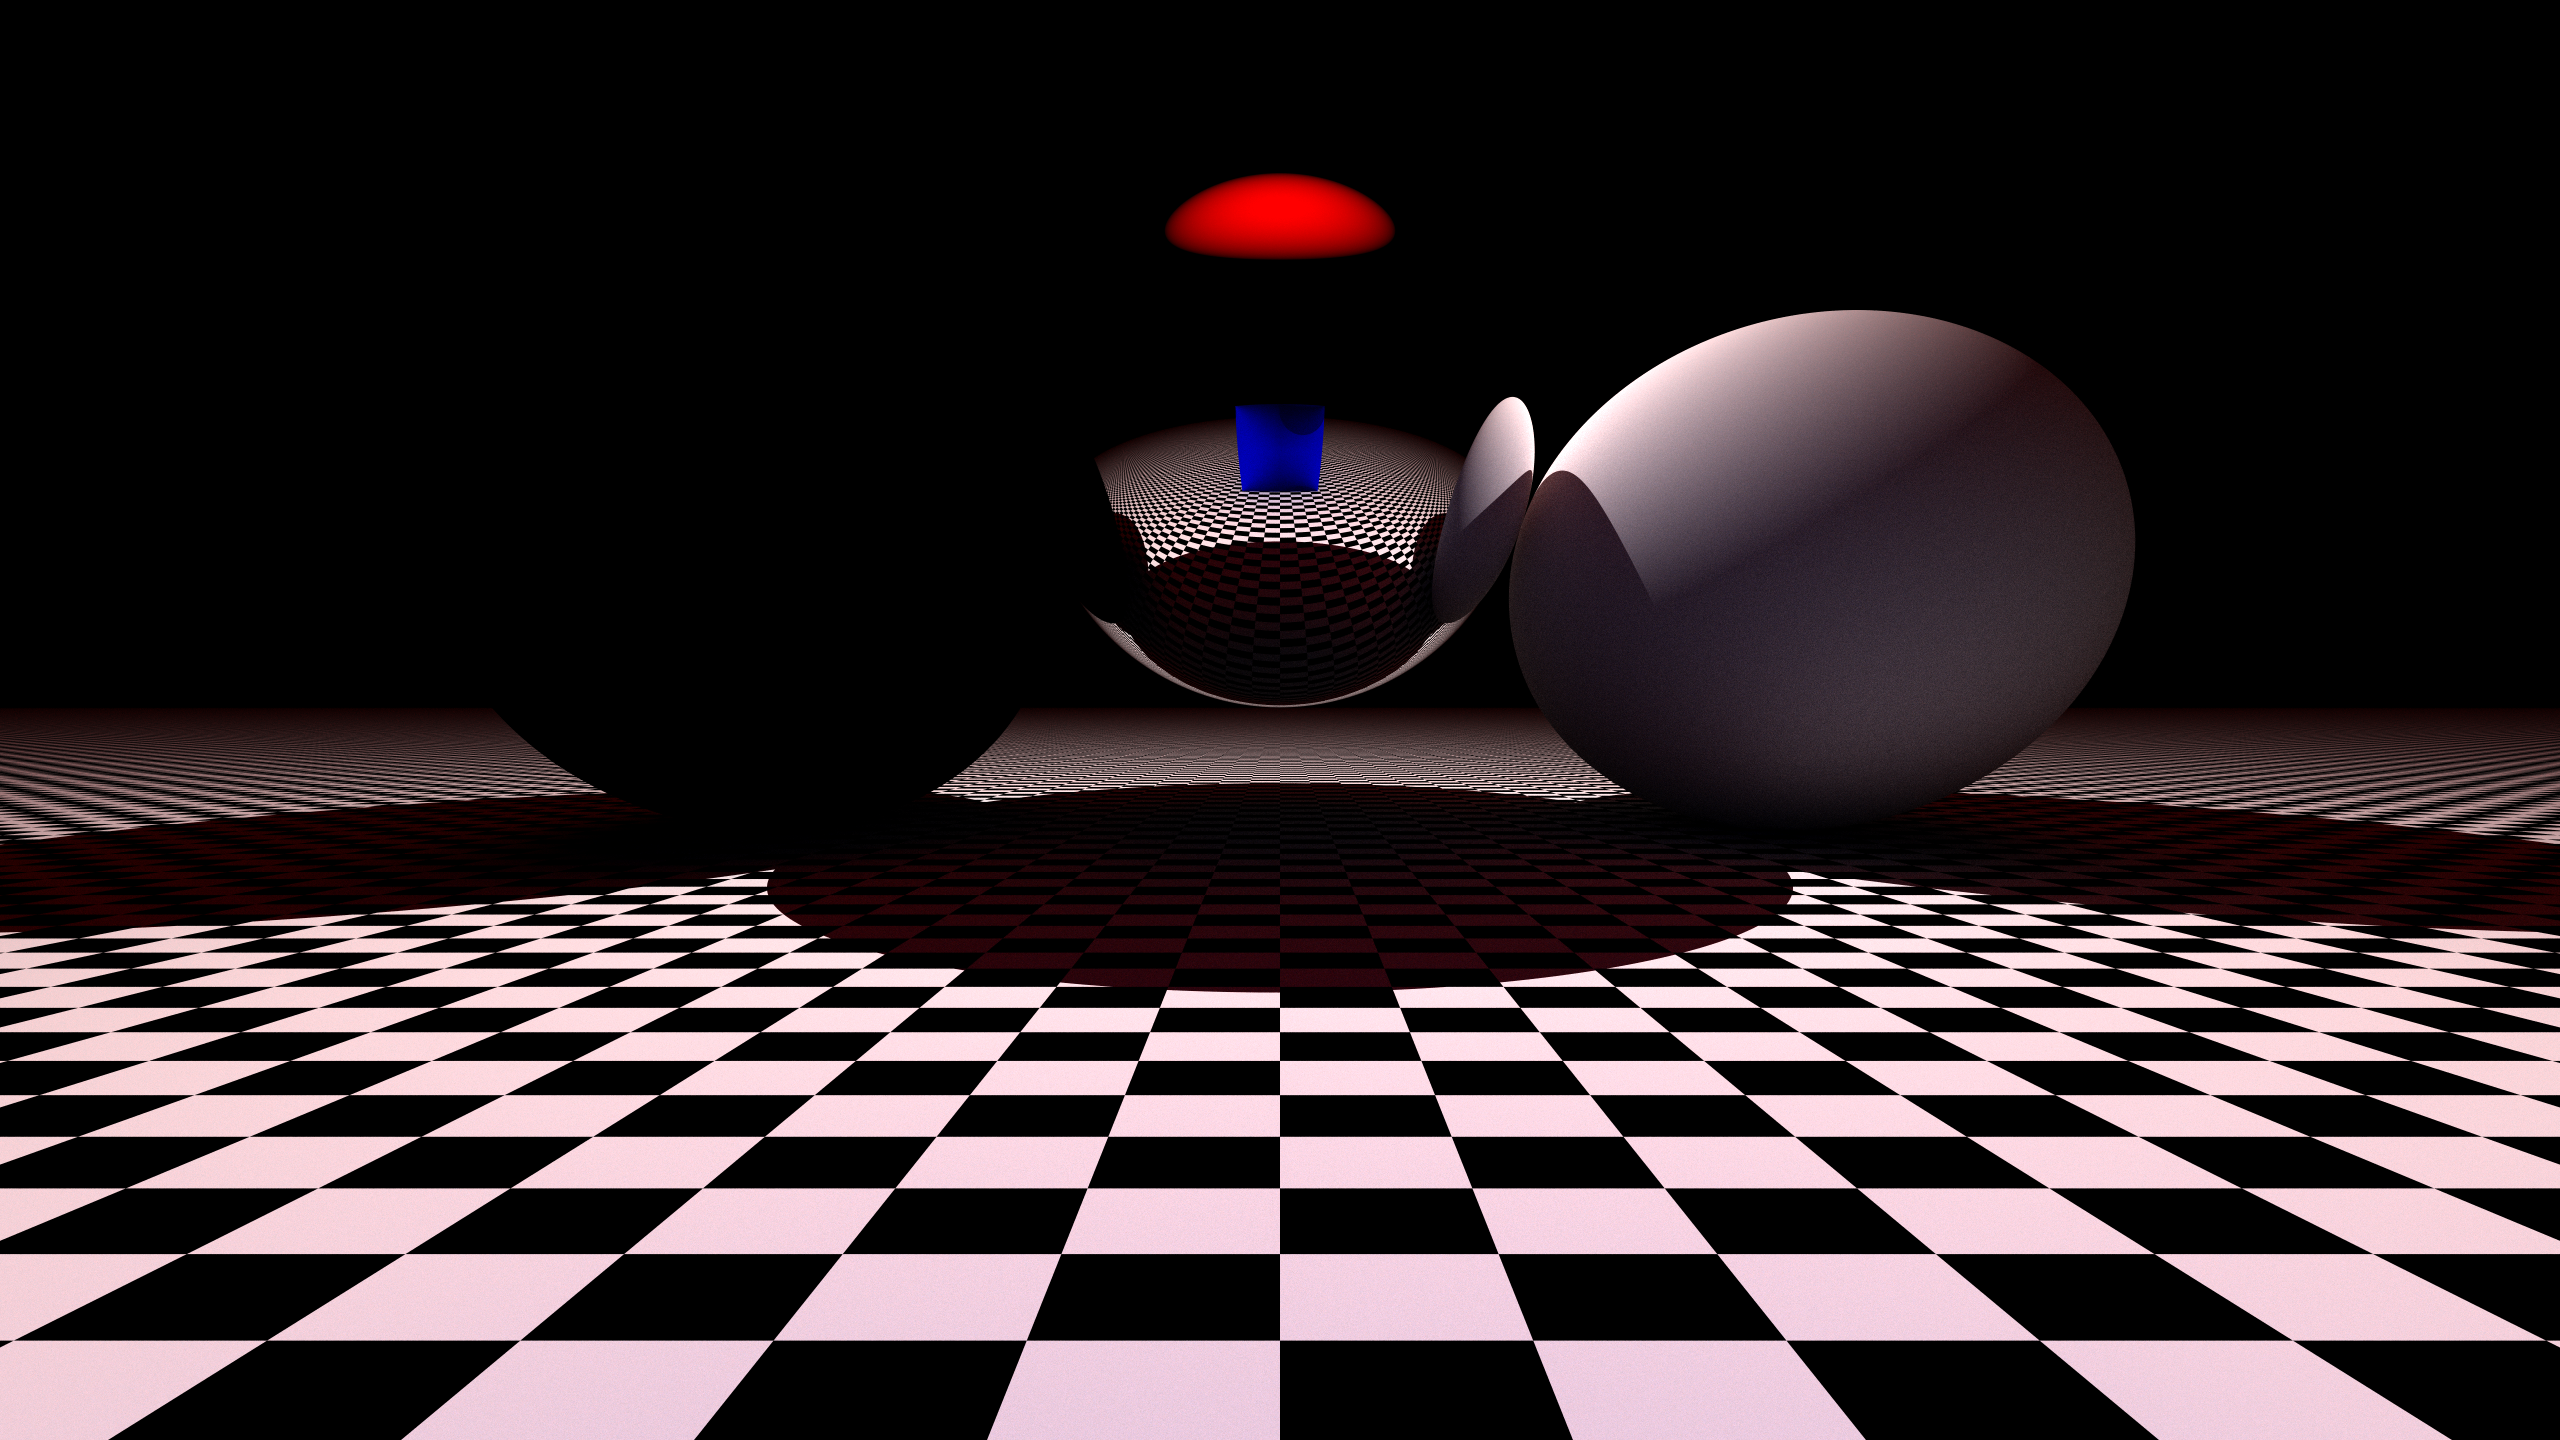
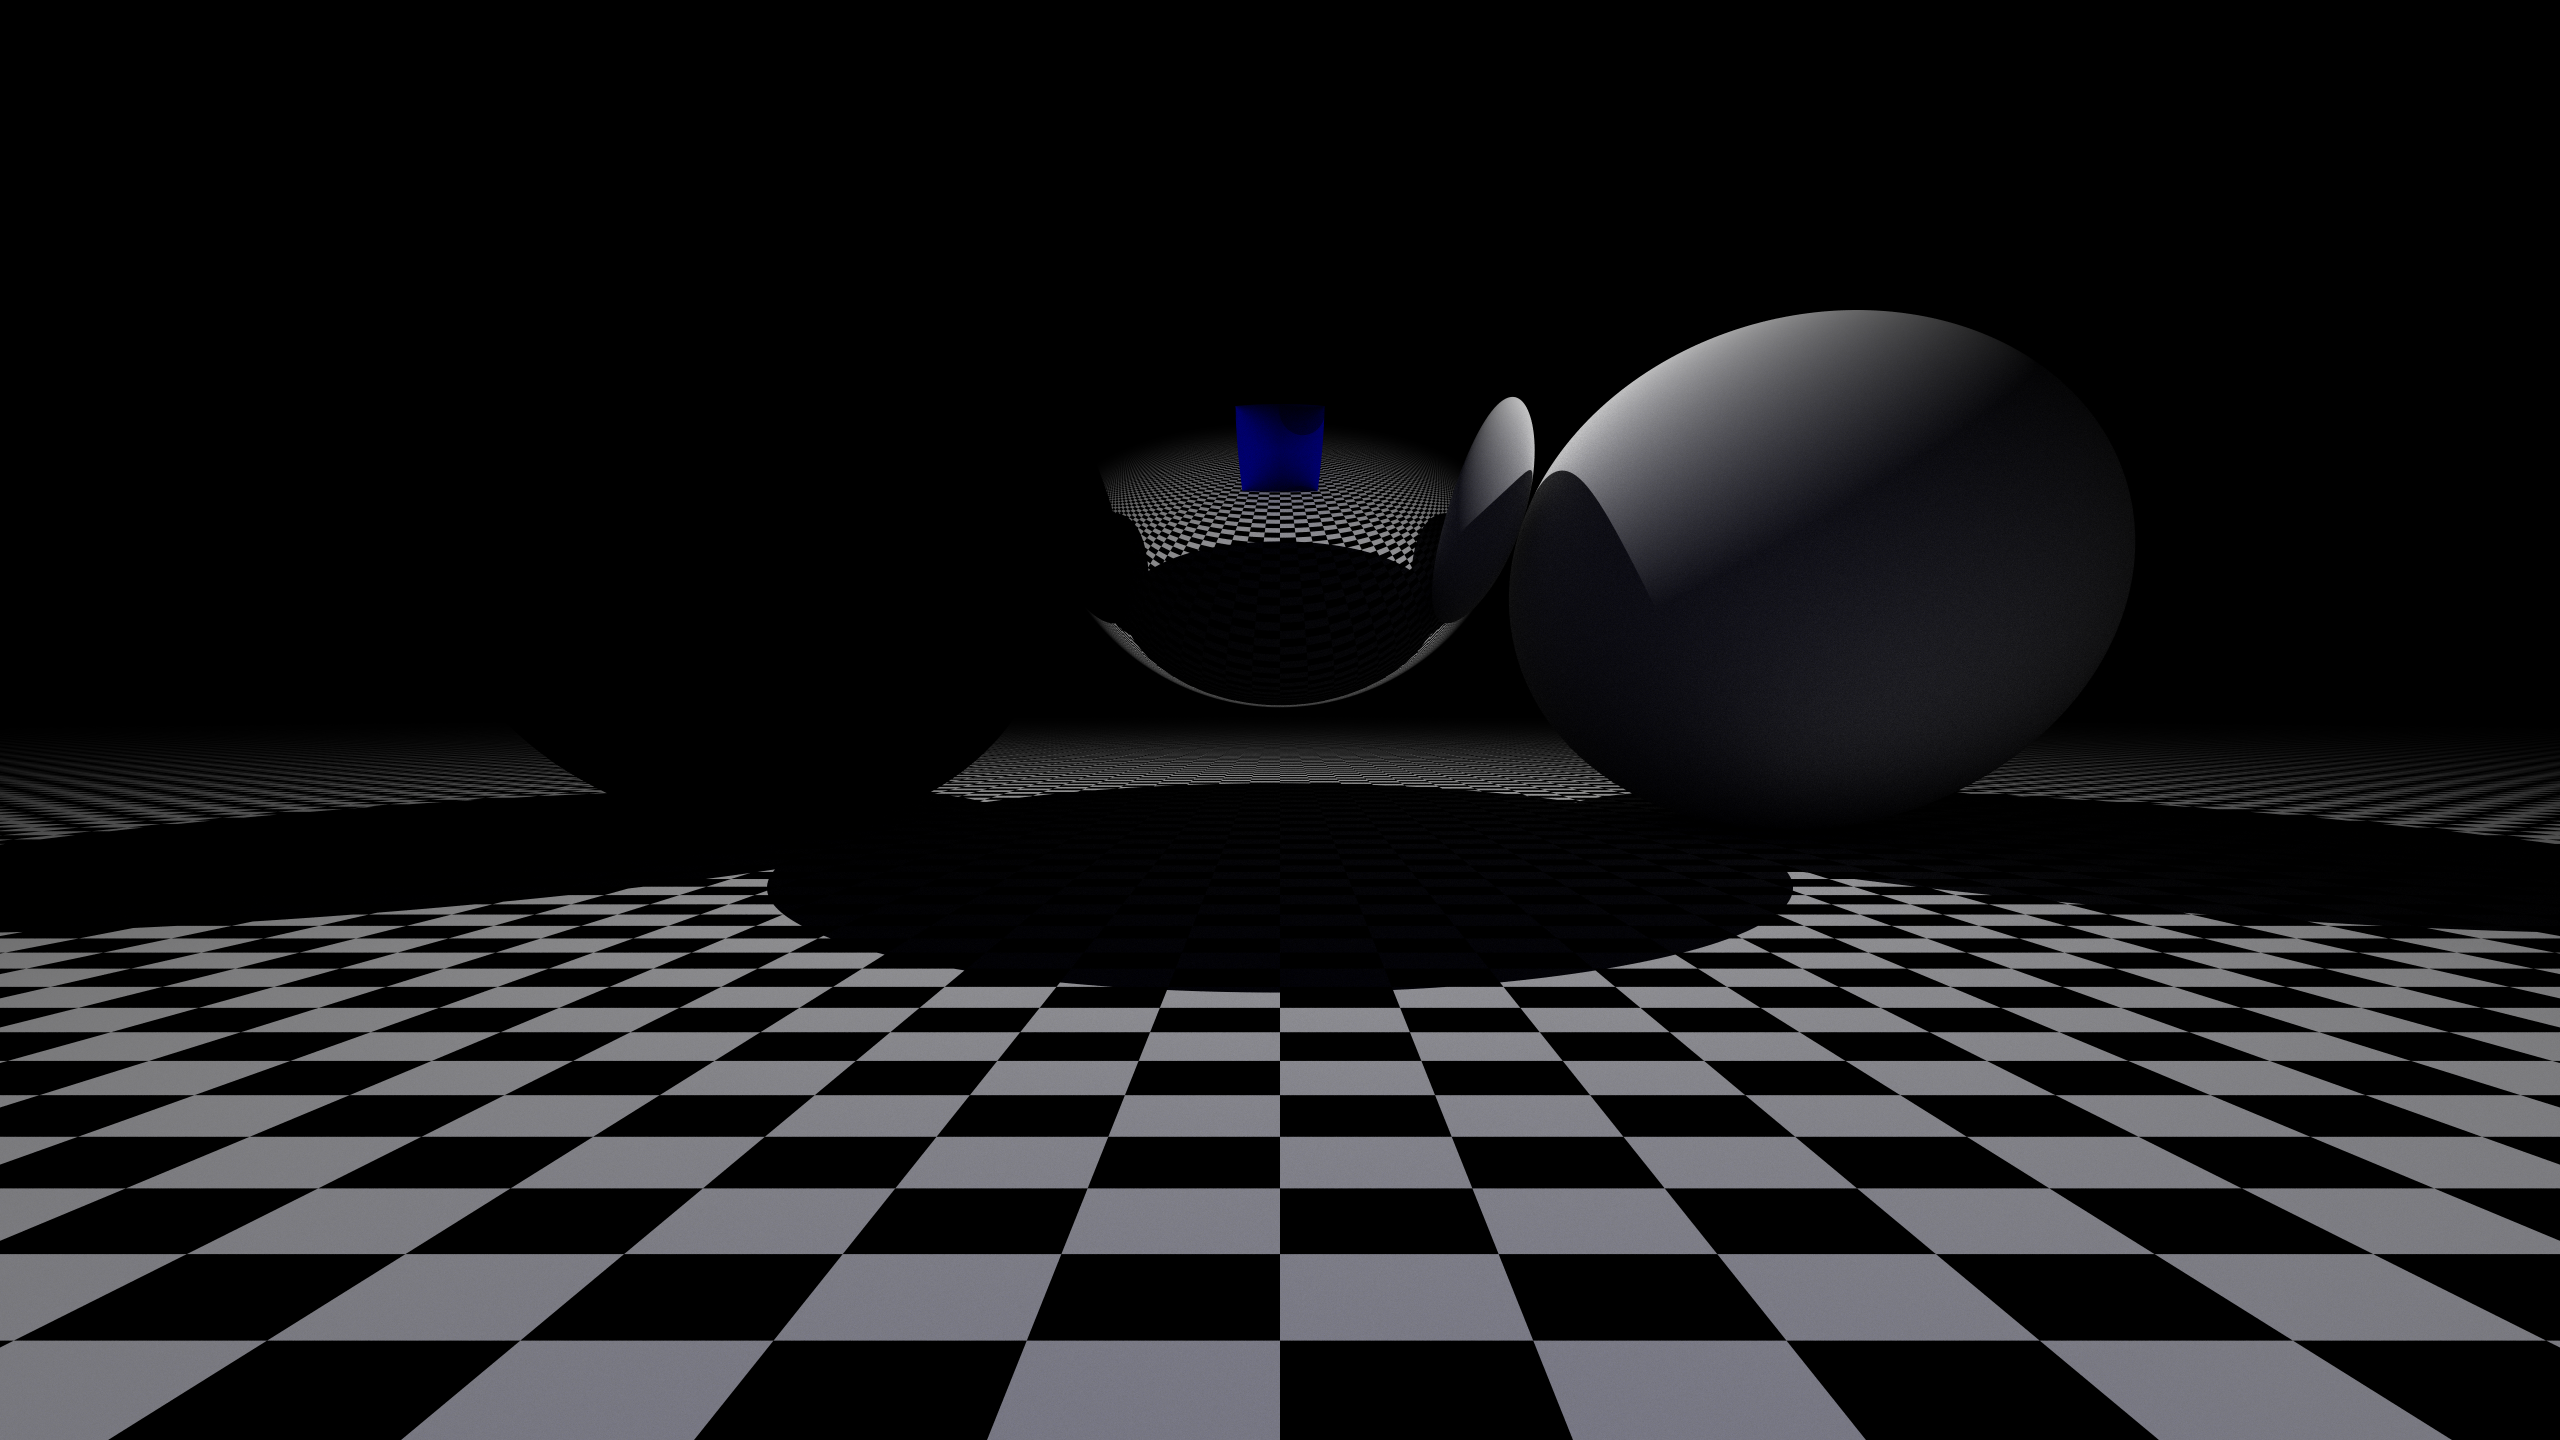
inverse square falloff but I'm cheating

diff --git a/src/scene/mod.rs b/src/scene/mod.rs
@@ -104,9 +104,16 @@ impl Scene {
                 return Vec3::new([0.0, 0.0, 0.0]);
             }
         }
-        // let falloff = 1.0 / (distance_to_light * distance_to_light);
-        // light.color().scale(falloff)
-        light.color()
+        let constant_term = 1.0; // Prevents division by zero at very close distances
+        let linear_term = 0.1; // Linear falloff factor
+        let quadratic_term = 0.01; // Quadratic falloff factor (original inverse square law)
+
+        let falloff = 1.0
+            / (constant_term
+                + linear_term * distance_to_light
+                + quadratic_term * distance_to_light * distance_to_light);
+
+        light.color().scale(falloff)
     }
 
     pub fn from_toml(toml: &Value) -> Self {
